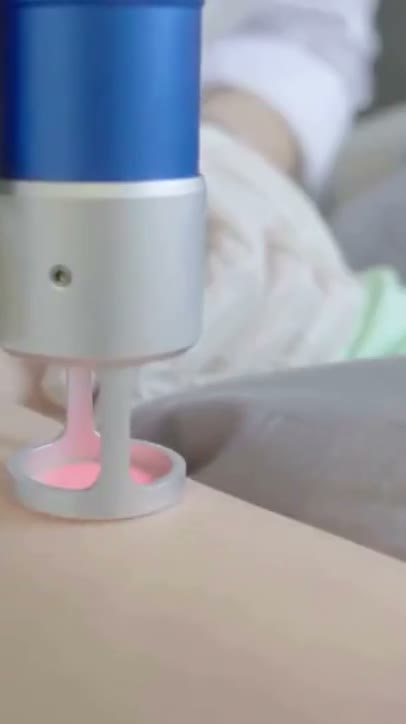
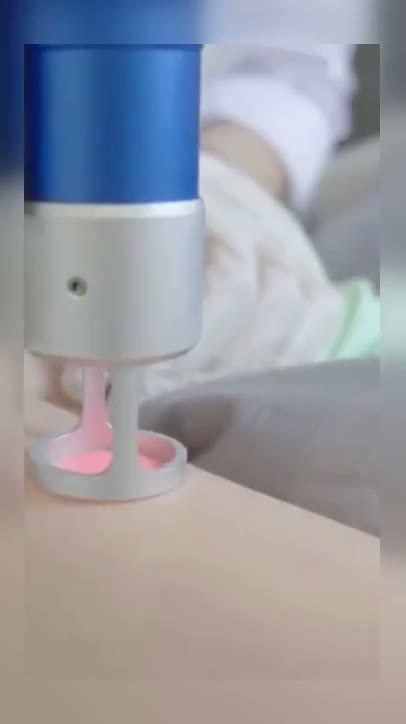
feat(hero): Morabba Light mobile title + cinematic video zoom-out
Video (both desktop + mobile):
- Re-encode with 88% content scale centered on gblur=25 blurred background
- Shows ~12% more of the original scene with no letterboxing
- Desktop: 1534 KB H.264 | Mobile portrait crop: 380 KB
- New poster frames extracted from updated videos

Font (mobile title only):
- Add Morabba Light @user → /fonts/Morabba-Light.woff2 (local)
- Add font-morabba to tailwind.config.ts
- Mobile title: font-morabba font-light, clamp(22px,6.5vw,32px), lh 1.6
- Desktop title: IranNastaliq unchanged
- NOTE: place Morabba-Light.woff2 in public/fonts/ to activate

diff --git a/components/Hero.tsx b/components/Hero.tsx
@@ -46,16 +46,14 @@ export default function Hero() {
 
           <h1 className="text-cream mb-4">
 
-            {/* ── Mobile: IranNastaliq, two clean lines, RTL right-aligned ── */}
+            {/* ── Mobile: Morabba Light, two clean lines, RTL right-aligned ── */}
             <span className="block sm:hidden">
               <span
-                className="block font-hero"
+                className="block font-morabba font-light"
                 style={{
-                  fontSize: "clamp(20px, 6vw, 28px)",
-                  lineHeight: 1.9,
-                  letterSpacing: 0,
-                  wordSpacing: "normal",
-                  fontKerning: "normal",
+                  fontSize: "clamp(22px, 6.5vw, 32px)",
+                  lineHeight: 1.6,
+                  letterSpacing: "-0.01em",
                   textRendering: "optimizeLegibility",
                 }}
               >
@@ -63,13 +61,11 @@ export default function Hero() {
               </span>
               {titleLine2 && (
                 <span
-                  className="block font-hero"
+                  className="block font-morabba font-light"
                   style={{
-                    fontSize: "clamp(20px, 6vw, 28px)",
-                    lineHeight: 1.9,
-                    letterSpacing: 0,
-                    wordSpacing: "normal",
-                    fontKerning: "normal",
+                    fontSize: "clamp(22px, 6.5vw, 32px)",
+                    lineHeight: 1.6,
+                    letterSpacing: "-0.01em",
                     textRendering: "optimizeLegibility",
                   }}
                 >

diff --git a/app/globals.css b/app/globals.css
@@ -12,6 +12,16 @@
   font-display: swap;
 }
 
+/* ── Morabba Light — فایل را در public/fonts/Morabba-Light.woff2 قرار دهید ── */
+@font-face {
+  font-family: "Morabba";
+  src: url("/fonts/Morabba-Light.woff2") format("woff2"),
+       url("/fonts/Morabba-Light.ttf")   format("truetype");
+  font-weight: 300;
+  font-style:  normal;
+  font-display: swap;
+}
+
 /* ── Peyda (نه در Google Fonts — از CDN بارگذاری میشود) ── */
 @font-face {
   font-family: "Peyda";

diff --git a/tailwind.config.ts b/tailwind.config.ts
@@ -23,6 +23,7 @@ const config: Config = {
         latin:   ["var(--font-cormorant)", "Georgia", "serif"],
         display: ["var(--font-playfair)", "Georgia", "serif"],
         hero:    ["IranNastaliq", "var(--font-lalezar)", "var(--font-vazirmatn)", "Tahoma", "sans-serif"],
+        morabba: ["Morabba", "var(--font-vazirmatn)", "Tahoma", "sans-serif"],
       },
       maxWidth: {
         content: "1200px",